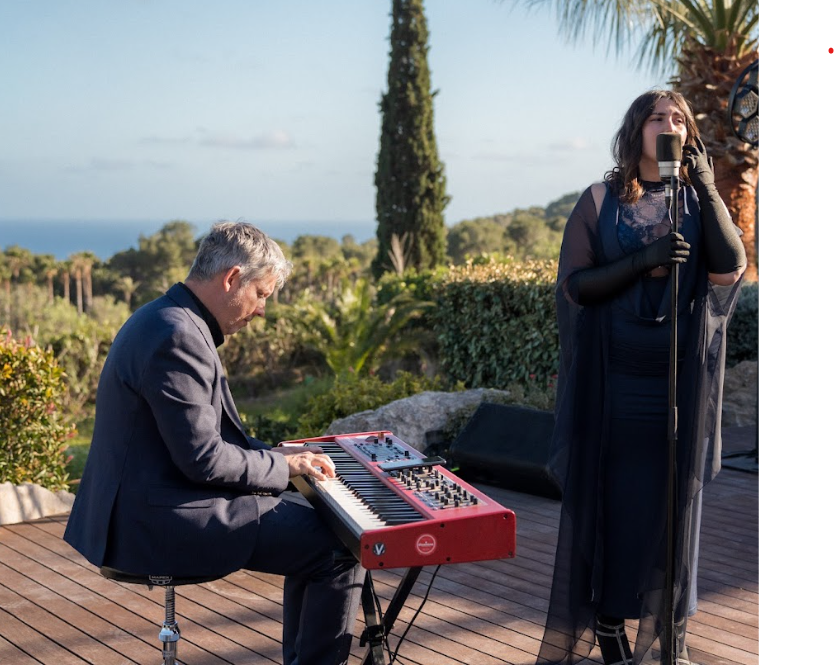
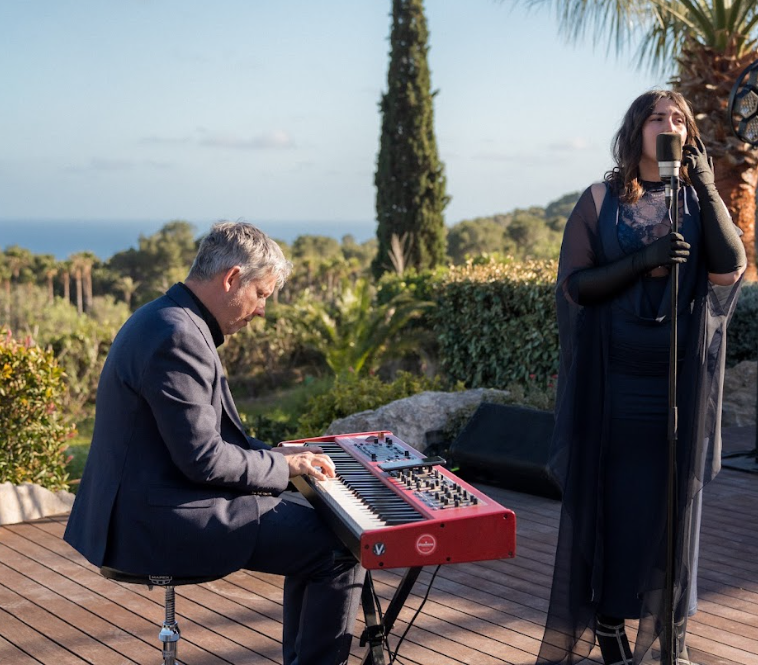
Arreglo pdf

diff --git a/core/static/core/css/home.css b/core/static/core/css/home.css
@@ -1149,7 +1149,7 @@ button {
 }
 
 .reservation-feedback-modal__content {
-    width: min(100%, 520px);
+    width: min(96vw, 900px);
 }
 
 .reservation-feedback-modal__body {
@@ -1179,6 +1179,47 @@ button {
     background: rgba(157, 75, 67, 0.08);
     border-color: rgba(157, 75, 67, 0.2);
     color: #9d4b43;
+}
+
+.reservation-pdf-preview {
+    margin: 1.25rem 0 1.5rem;
+    overflow: hidden;
+    border: 1px solid rgba(51, 43, 36, 0.14);
+    border-radius: 18px;
+    background: rgba(255, 253, 250, 0.82);
+    box-shadow: 0 18px 45px rgba(51, 43, 36, 0.12);
+    text-align: left;
+}
+
+.reservation-pdf-preview__header {
+    display: flex;
+    align-items: center;
+    justify-content: space-between;
+    gap: 1rem;
+    padding: 0.85rem 1rem;
+    border-bottom: 1px solid rgba(51, 43, 36, 0.1);
+    color: var(--text-main);
+    font-size: 0.9rem;
+    font-weight: 700;
+}
+
+.reservation-pdf-preview__header a {
+    color: var(--accent);
+    font-size: 0.86rem;
+    font-weight: 700;
+    text-decoration: none;
+}
+
+.reservation-pdf-preview__header a:hover {
+    text-decoration: underline;
+}
+
+.reservation-pdf-preview__frame {
+    display: block;
+    width: 100%;
+    height: min(62vh, 620px);
+    border: 0;
+    background: #f7f2eb;
 }
 
 .reservation-feedback-modal__button {
@@ -1833,6 +1874,10 @@ button {
 
     .reservation-feedback-modal__body {
         padding: 2rem 1.4rem;
+    }
+
+    .reservation-pdf-preview__frame {
+        height: 360px;
     }
 
     .footer-contact-card {

diff --git a/core/templates/core/home.html b/core/templates/core/home.html
@@ -358,6 +358,23 @@
                             </div>
                         {% endfor %}
 
+                        {% if reservation_pdf_available %}
+                            <div class="reservation-pdf-preview">
+                                <div class="reservation-pdf-preview__header">
+                                    <span>{% trans "Documento generado" %}</span>
+                                    <a href="{% url 'reservation_pdf_preview' %}" target="_blank" rel="noopener">
+                                        {% trans "Abrir PDF" %}
+                                    </a>
+                                </div>
+
+                                <iframe
+                                    src="{% url 'reservation_pdf_preview' %}"
+                                    title="{% trans 'Resumen de reserva en PDF' %}"
+                                    class="reservation-pdf-preview__frame">
+                                </iframe>
+                            </div>
+                        {% endif %}
+
                         <button type="button" class="btn btn-primary reservation-feedback-modal__button js-close-feedback">
                             {% trans "Entendido" %}
                         </button>

diff --git a/core/views.py b/core/views.py
@@ -7,6 +7,7 @@ from io import BytesIO
 from django.conf import settings
 from django.contrib import messages
 from django.core.mail import EmailMessage
+from django.http import FileResponse, Http404
 from django.shortcuts import redirect, render
 from django.utils import timezone, translation
 from django.utils.translation import gettext as _
@@ -23,6 +24,8 @@ from .models import AboutImage, EventFormat, HeroImage, MusicTrack, SiteConfigur
 
 
 logger = logging.getLogger(__name__)
+
+RESERVATION_PDF_SESSION_KEY = 'latest_reservation_pdf_filename'
 
 
 def get_selected_language(request):
@@ -357,7 +360,9 @@ def send_reservation_email_with_pdf(
     reservation,
     config,
     background_image=None,
-    language_code=None
+    language_code=None,
+    pdf_path=None,
+    pdf_filename=None
 ):
     if language_code is None:
         language_code = settings.LANGUAGE_CODE
@@ -382,11 +387,15 @@ def send_reservation_email_with_pdf(
             + f'\n{config.site_name}'
         )
 
-        file_path, filename = save_reservation_pdf(
-            reservation,
-            config,
-            background_image
-        )
+        if pdf_path and pdf_filename:
+            file_path = pdf_path
+            filename = pdf_filename
+        else:
+            file_path, filename = save_reservation_pdf(
+                reservation,
+                config,
+                background_image
+            )
 
     email = EmailMessage(
         subject=subject,
@@ -403,6 +412,31 @@ def send_reservation_email_with_pdf(
         )
 
     email.send(fail_silently=False)
+
+
+def reservation_pdf_preview(request):
+    filename = request.session.get(RESERVATION_PDF_SESSION_KEY)
+
+    if not filename:
+        raise Http404(_('No hay ningún PDF de reserva disponible.'))
+
+    safe_filename = os.path.basename(filename)
+
+    if safe_filename != filename or not safe_filename.lower().endswith('.pdf'):
+        raise Http404(_('PDF no válido.'))
+
+    file_path = os.path.join(settings.BASE_DIR, 'private', 'reservas', safe_filename)
+
+    if not os.path.exists(file_path):
+        raise Http404(_('El PDF de la reserva ya no está disponible.'))
+
+    response = FileResponse(
+        open(file_path, 'rb'),
+        content_type='application/pdf'
+    )
+    response['Content-Disposition'] = f'inline; filename="{safe_filename}"'
+
+    return response
 
 
 def home(request):
@@ -453,12 +487,23 @@ def home(request):
         if reservation_form.is_valid():
             reservation = reservation_form.save()
 
+            with translation.override(selected_language):
+                reservation_pdf_path, reservation_pdf_filename = save_reservation_pdf(
+                    reservation,
+                    config,
+                    background_image
+                )
+
+            request.session[RESERVATION_PDF_SESSION_KEY] = reservation_pdf_filename
+
             try:
                 send_reservation_email_with_pdf(
                     reservation,
                     config,
                     background_image,
-                    selected_language
+                    selected_language,
+                    reservation_pdf_path,
+                    reservation_pdf_filename
                 )
 
                 messages.success(
@@ -535,6 +580,7 @@ def home(request):
             'about_images_payload': about_images_payload,
             'music_tracks': music_tracks,
             'reservation_form': reservation_form,
+            'reservation_pdf_available': bool(request.session.get(RESERVATION_PDF_SESSION_KEY)),
             'current_year': timezone.now().year,
         }
     )

diff --git a/core/urls.py b/core/urls.py
@@ -3,4 +3,5 @@ from . import views
 
 urlpatterns = [
     path('', views.home, name='home'),
+    path('reservation-pdf/', views.reservation_pdf_preview, name='reservation_pdf_preview'),
 ]